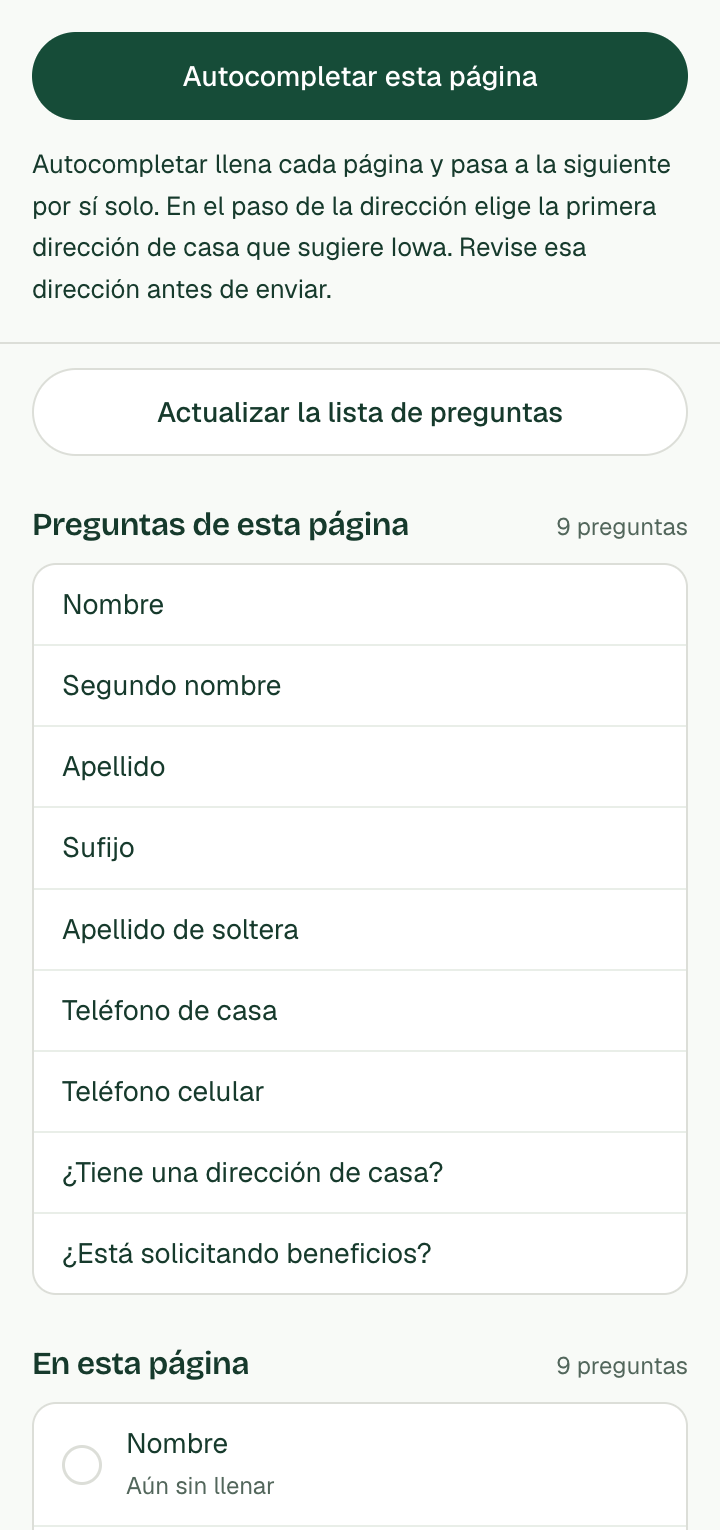
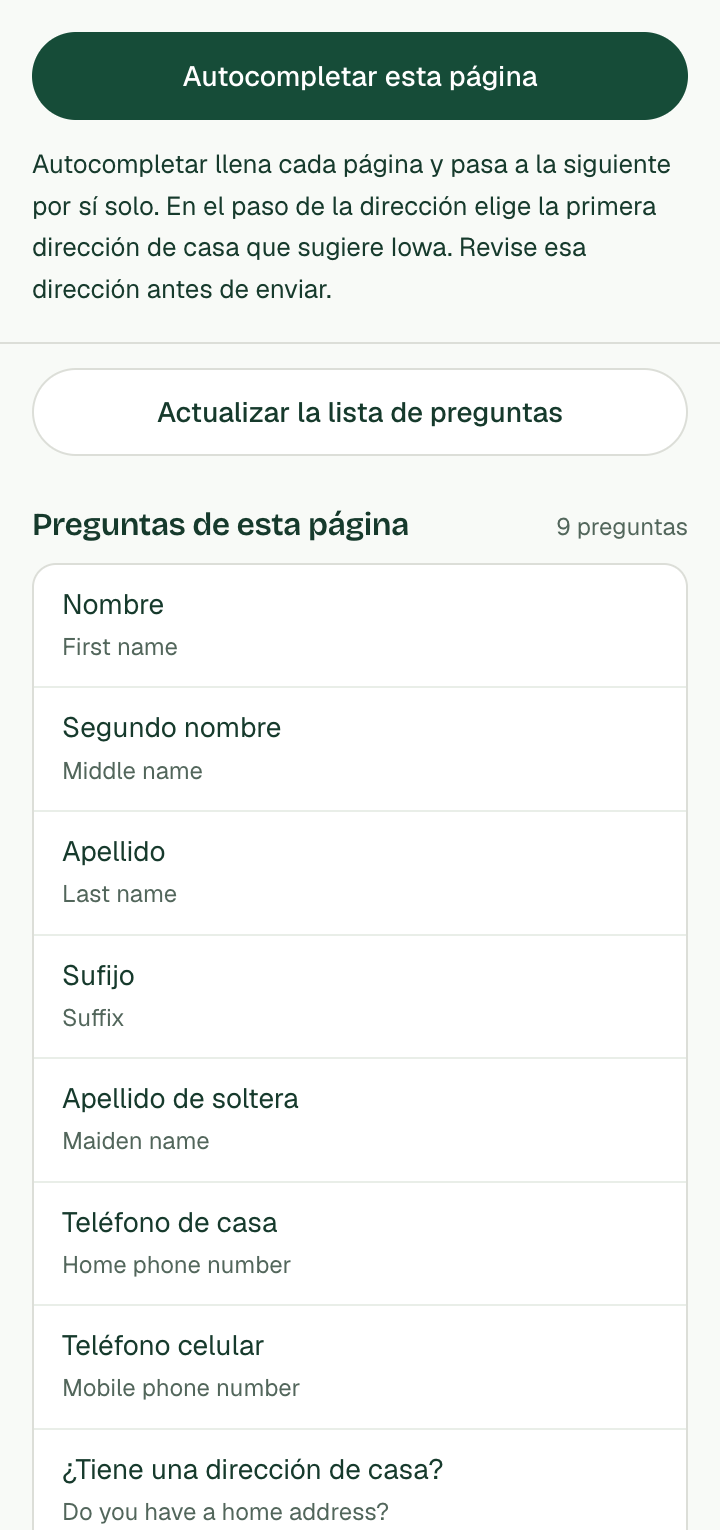
fix: show the form's English under each translated question
On Iowa's pages the list of questions in the reader's language repeated
the checklist below it, name for name. Each row now carries the English
it stands for under it ("Nombre" over "First name"), as rows translated
by Chrome already did, so a reader can match it with Iowa's English form.

The card's link to that list said "View in English" ("Ver en español"),
which read as an offer to translate Iowa's page. It now says what it
shows: "See the questions in English" ("Ver las preguntas en español").

diff --git a/extension/strings.js b/extension/strings.js
@@ -42,7 +42,7 @@
     'widget.needYou': { one: '{count} question left', other: '{count} questions left' },
     'widget.findInForm': 'Find it in the form.',
     'widget.findInIowa': 'Find it in Iowa’s form.',
-    'widget.offer': 'View in English',
+    'widget.offer': 'See the questions in English',
     'widget.offerTitle': 'Show this page’s questions in English in SecondHand’s side panel',
     'widget.languageCheckFailed': 'SecondHand couldn’t check this page’s language.',
     'widget.outdated': 'SecondHand was updated.',
@@ -380,7 +380,7 @@
     'widget.needYou': { one: 'Falta {count}', other: 'Faltan {count}' },
     'widget.findInForm': 'Búsquelo en el formulario.',
     'widget.findInIowa': 'Búsquelo en el formulario de Iowa.',
-    'widget.offer': 'Ver en español',
+    'widget.offer': 'Ver las preguntas en español',
     'widget.offerTitle': 'Mostrar las preguntas de esta página en español en el panel lateral de SecondHand',
     'widget.languageCheckFailed': 'SecondHand no pudo comprobar el idioma de esta página.',
     'widget.outdated': 'SecondHand se actualizó.',
@@ -712,7 +712,7 @@
     'widget.needYou': { one: '{count} mục cần bạn', other: '{count} mục cần bạn' },
     'widget.findInForm': 'Hãy tìm nó trong biểu mẫu.',
     'widget.findInIowa': 'Hãy tìm nó trong biểu mẫu của Iowa.',
-    'widget.offer': 'Xem bằng tiếng Việt',
+    'widget.offer': 'Xem các câu hỏi bằng tiếng Việt',
     'widget.offerTitle': 'Hiển thị các câu hỏi của trang này bằng tiếng Việt trong bảng bên của SecondHand',
     'widget.languageCheckFailed': 'SecondHand không kiểm tra được ngôn ngữ của trang này.',
     'widget.outdated': 'SecondHand đã được cập nhật.',
@@ -1045,7 +1045,7 @@
     'widget.needYou': { one: '{count} 项需要您处理', other: '{count} 项需要您处理' },
     'widget.findInForm': '请在表格中找到它。',
     'widget.findInIowa': '请在爱荷华州的表格中找到它。',
-    'widget.offer': '以中文查看',
+    'widget.offer': '用中文查看问题',
     'widget.offerTitle': '在 SecondHand 侧边栏中用中文显示此页面的问题',
     'widget.languageCheckFailed': 'SecondHand 无法检查此页面的语言。',
     'widget.outdated': 'SecondHand 已更新。',
@@ -1378,7 +1378,7 @@
     'widget.needYou': { one: '{count} à faire', other: '{count} à faire' },
     'widget.findInForm': 'Trouvez-la dans le formulaire.',
     'widget.findInIowa': 'Trouvez-la dans le formulaire de l’Iowa.',
-    'widget.offer': 'Voir en français',
+    'widget.offer': 'Voir les questions en français',
     'widget.offerTitle': 'Afficher les questions de cette page en français dans le panneau latéral de SecondHand',
     'widget.languageCheckFailed': 'SecondHand n’a pas pu vérifier la langue de cette page.',
     'widget.outdated': 'SecondHand a été mis à jour.',
@@ -1711,7 +1711,7 @@
     'widget.needYou': { one: 'بحاجة إليك: {count}', other: 'بحاجة إليك: {count}' },
     'widget.findInForm': 'ابحث عنه في النموذج.',
     'widget.findInIowa': 'ابحث عنه في نموذج أيوا.',
-    'widget.offer': 'العرض بالعربية',
+    'widget.offer': 'عرض الأسئلة بالعربية',
     'widget.offerTitle': 'عرض أسئلة هذه الصفحة بالعربية في اللوحة الجانبية لـ SecondHand',
     'widget.languageCheckFailed': 'لم يتمكن SecondHand من معرفة لغة هذه الصفحة.',
     'widget.outdated': 'تم تحديث SecondHand.',

diff --git a/extension/panel.js b/extension/panel.js
@@ -770,12 +770,12 @@
         row.disabled = working || !target;
         row.addEventListener('click', trusted(() => { if (!row.disabled) focusField(item.id); }));
       }
-      // SecondHand's own label is simply shown in the applicant's language; a translation of the
-      // page's words keeps the original underneath, to match it with the form.
+      // The question in the applicant's language (SecondHand's own label from its catalog, or Chrome's
+      // translation of the page's words), with the English it stands for underneath, to match it with the form.
       const own = item.labelKey ? t(item.labelKey, item.labelParams || {}) : translated.get(item.label);
       const copy = document.createElement('span'); copy.className = 'checklist-copy';
       const label = document.createElement('span'); label.className = 'checklist-label'; label.textContent = fixedText(own || item.label, 400);
-      const original = document.createElement('span'); original.className = 'checklist-detail'; original.textContent = !item.labelKey && own && own !== item.label ? fixedText(item.label, 400) : '';
+      const original = document.createElement('span'); original.className = 'checklist-detail'; original.textContent = own && own !== item.label ? fixedText(item.label, 400) : '';
       original.hidden = !original.textContent;
       copy.append(label, original);
       row.append(copy);
